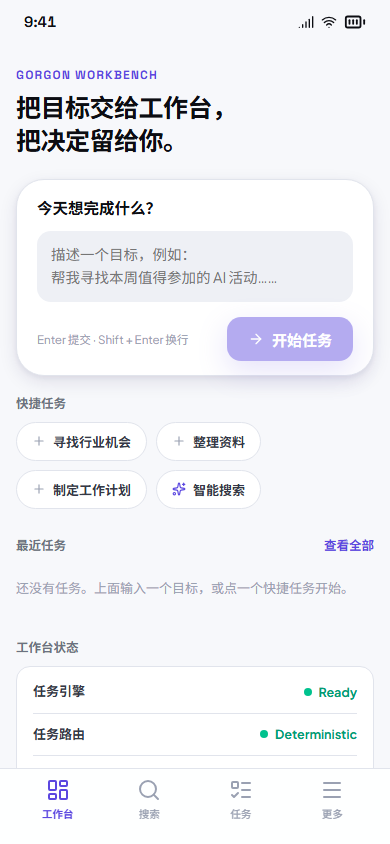
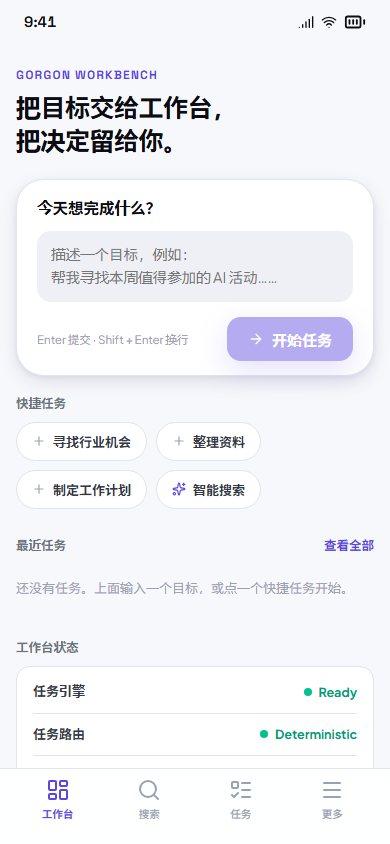
chore(workbench): harden run UX for unknown-intent tasks + guard error path
Disable the run button when a task is ready but the router resolved no skills (unknown intent); manual tool buttons remain available. Adds a regression test for the runner NO_SKILLS_SPECIFIED path. Unit 126/126, Workbench E2E 69/69.

diff --git a/app/src/screens/TaskDetailScreen.jsx b/app/src/screens/TaskDetailScreen.jsx
@@ -110,8 +110,13 @@ export function TaskDetailScreen({ task, onTransition, onBack, onAddStep, onUpda
   const [running, setRunning] = React.useState(false);
   const [runError, setRunError] = React.useState(null);
 
-  const isRunnable = (task.status === TASK_STATUS.CREATED || task.status === TASK_STATUS.READY) && !running;
   const router = task.metadata && task.metadata.router;
+  const routerHasSkills = !!(router && Array.isArray(router.skillIds) && router.skillIds.length > 0);
+  // The Run button drives the engine: from `created` it routes + executes; from
+  // `ready` it only runs when the router already resolved ≥1 skill. A `ready`
+  // task with no skills (unknown intent) must use manual selection instead, so
+  // we disable Run there rather than producing a no-op error click (§8/§27).
+  const isRunnable = (task.status === TASK_STATUS.CREATED || (task.status === TASK_STATUS.READY && routerHasSkills)) && !running;
 
   const handleRun = async (skillIds) => {
     if (!onRun || running) return;
